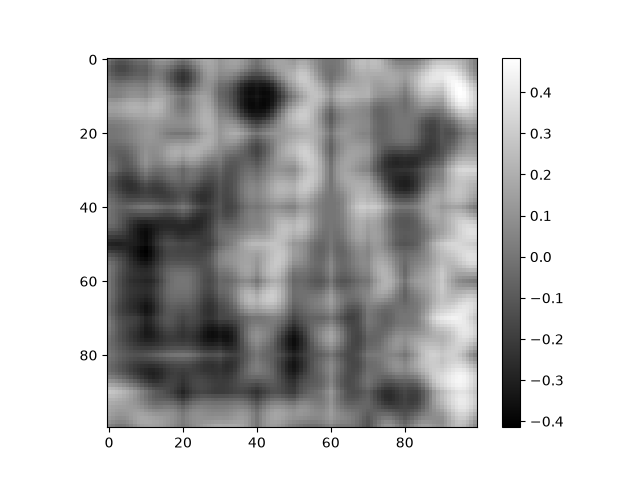
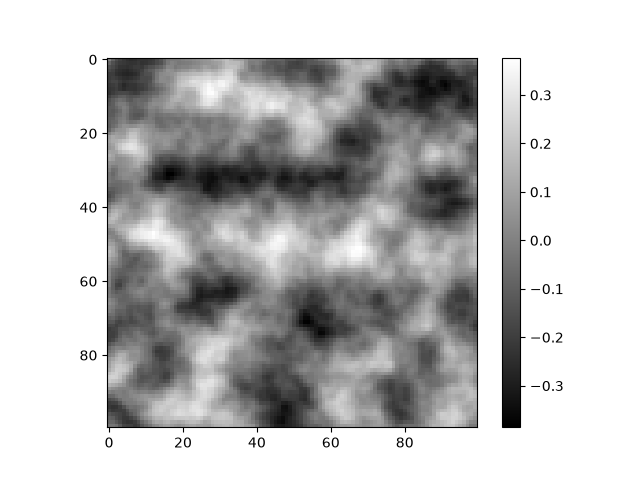
fixed the grid showing on noise generation

diff --git a/src/perlin_noise/noise.py b/src/perlin_noise/noise.py
@@ -24,10 +24,10 @@ class PerlinNoise():
         self.y_coord = int(y)
 
     def distance(self):
-        self.distance_to_tl =  (self.x, 1-self.y)
+        self.distance_to_tl =  (-self.x, 1-self.y)
         self.distance_to_tr = (1-self.x, 1-self.y)
-        self.distance_to_bl = (self.x, self.y)
-        self.distance_to_br = (1-self.x, self.y)
+        self.distance_to_bl = (-self.x, -self.y)
+        self.distance_to_br = (1-self.x, -self.y)
     
     def dot_product(self):
         self.tl_dot = np.dot(self.vec_tl, self.distance_to_tl)

diff --git a/README.md b/README.md
@@ -8,7 +8,7 @@ The project uses a permutation table, gradient vectors, dot products, a fade fun
 
 ## Example
 
-![Perlin Noise Example](images/Perlin-noise-4-octaves.png)
+![Perlin Noise Example](images/perlin-noise-4-octaves.png)
 
 This is an example of the algorithm with 4 octaves
 
